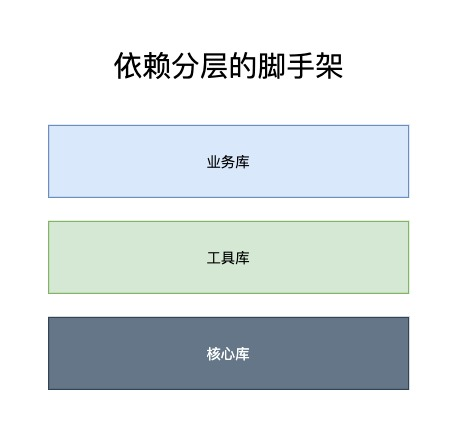
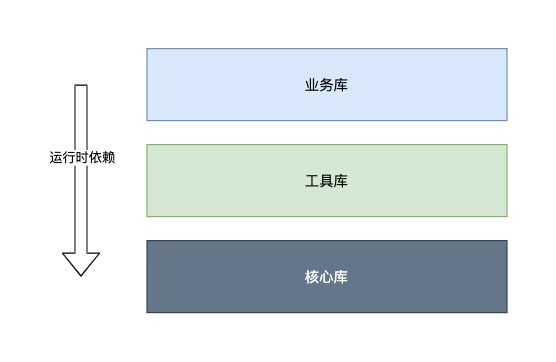
Update post

diff --git a/content/blog-posts/2021/01-13-运行时依赖、编译时依赖在前端领域的概念与实现.md b/content/blog-posts/2021/01-13-运行时依赖、编译时依赖在前端领域的概念与实现.md
@@ -8,26 +8,51 @@ tags:
   - 架构
 ---
 
-## why
+## 动机
 
 纯前端的小伙伴对运行时和编译时依赖的概念比较模糊，所以这里想分享一下其中的原理，与感兴趣的前端小伙一起探讨，同时让我们前端小队成员更深入地了解我们的低代码平台的前端架构。
 
-## what
+## What
 
-什么是运行时依赖，什么是编译时依赖？纯前端的小伙伴应该对此概念比较陌生。其实这些都是成熟后端语言的构建术语，例如 Java。
+运行时依赖？编译时依赖？纯前端的小伙伴应该对此比较陌生。其实在成熟的后端语言都属于常识了。
 
-如果我用前端的话术来解释，可能就很容易理解了：
+如果这里用前端的话术来描述，可能就很容易理解了：
 
-1. 运行时依赖：我们的业务代码在运行到某一行时，通过全局对象 `window` 查找被依赖的模块，例如 `window.react`。这个时候就是运行时依赖 `react`。
-2. 编译时依赖：在工程构建工具（通常是 webpack）编译代码时，将模块之间的依赖编译进代码，前提是没有配置外置模块（external）。例如 `import React from 'react'`。这个时候就是编译时依赖 `react`。
+2. 编译时依赖：将工程中所依赖的模块与我们开发的模块一起进行编译。例如 `import React from 'react'`（webpack 中不设置 externals）。这个时候就是编译时依赖 `react`。
+2. 运行时依赖：代码在运行到某一行时，通过使用全局对象 `window` 的某个模块，例如 `window.react`。这个时候就是运行时依赖 `react`。
 
-通过 webpack 的 externals 将三方依赖分离，这个相信很多小伙伴都是有所认识的，但是其背后的概念可能小伙伴们并不太熟悉。所以这里想谈的就是这个背后的概念与具体落地方案。
+### 编译时依赖
+
+最直白的其实就是将前端 npm 工程中的 `package.json` 中的 `dependencies` 下的所有项，与我们开发的代码一起构建了。
+
+举个例子：
+
+```tsx
+import React from 'react'
+import ReactDOM from 'react-dom'
+
+const App extends React.Component {
+  render() {
+    return (
+      <div>Hello</div>
+    )
+  }
+}
+
+ReactDOM.render(<App />, container)
+```
+
+这里假设使用了 webpack 进行构建，没有使用 externals 配置将 react 和 react-dom 分离的话，就等于业务模块 `App` 在编译时依赖了 react 和 react-dom。
+
+目前开源社区中很 hit 的前端工程脚手架 `create-react-app`，隐藏了 webpack 的配置细节，开箱即用的，门槛较低。同时也将所有模块都通过编译时依赖的方式进行构建，项目规模小的情况下，还是很好用的，但是随着项目规模扩张，就不够了。需要手动将 webpack ejest，再根据项目进行定制。
+
+当然也有一些脚手架优化的比较好，例如 `nextjs`，`gatsbyjs` 等。这里也不详细讨论。
 
 ### 运行时依赖
 
-通常，我们会通过 CDN 地址获取已经构建好的库，并且我们编写的业务库需要在别人的库加载完成后再加载。
+通常，我们可以通过 CDN 获取我们所依赖的、稳定版本的三方库，我们编写的业务库需要在依赖的库加载完成后再加载。
 
-例如我们通过 CDN 加载 react，我们的业务代码库紧跟其后：
+> 例如我们通过 CDN 加载 react，我们的业务代码库紧跟其后：
 
 ```html
 <script src="https://cdnjs.cloudflare.com/ajax/libs/react/17.0.1/umd/react.production.min.js"></script>
@@ -35,58 +60,34 @@ tags:
 <script src="https://biz-code.js"></script>
 ```
 
-这个时候我们的业务代码就是在运行时依赖 `react`。这个也是前端常见的性能优化手段之一，将代码开发时所依赖的包，按照某种规则分割成多个包。
+这个时候我们的业务库 `biz-code` 就是在运行时依赖 `react`。这个概念对如何进行业务分离很重要，并且接下来将分享几个个人观点：
 
-但是这篇文章并不是将性能优化，而是想要通过这个`运行时依赖`这个概念，讲述 1. 如何多人异步开发应用；2. 打造更稳定的、高容错的、可持续交付的应用工程。
-
-作为对比，会先讲述一下什么是编译时依赖。
-
-### 编译时依赖
-
-其实就是写在前端 npm 工程中的 `package.json` 中的 `dependencies` 下的所有项。
-
-例如最简单的 package.json 描述：
-
-```json
-{
-  "name": "package-name",
-  "dependencies": {
-    "react": "^17.0.1",
-    "react-dom": "^17.0.1"
-  },
-  "scripts": {
-    "start": "node start.js"
-  }
-}
-```
-
-一般的前端工程脚手架，例如 `create-react-app`，是基于 webpack 处理所有的模块的。熟悉 webpack 的朋友应该都知道`入口 entry`的概念。一般情况下，webpack 会将分析模块的依赖，就是 `import` 了什么，然后将 `import` 的模块也编译进 `bundler.js` 中。
-
-所以按照上面的 json 描述，webpack 将会把 `react` 和 `react-dom` 与我们的业务代码一起编译（compile）。也就是说，我们在编译时依赖了 `react` 和 `react-dom`。
-
-这种方式就称为`编译时依赖`（除非写 webpack 配置时用 `externals`）。
+1. 前端开发对构建和依赖概念陌生的缘由（非重点）
+2. 如何通过运行时依赖__设计高度可扩展的业务架构__。（重点）
 
 ---
 
 ## 前端工程的现状
 
-就目前而言，大部分的 web 软件项目都是简单业务（_只有业务量足够大，才会有更多的技术与非技术问题需要解决，这也是大公司与小公司在技术上的主要区别，这是题外话_）。
+就目前而言，大部分互联网 web 软件项目都是简单业务。（毕竟互联网产品的生命周期超过三年的就算是成功了😊）
 
-当项目规模很小的时候，其实区别是不大的。开源社区有很多成熟的、开箱即用的脚手架（例如 create-react-app、umi），开发小规模项目都挺好用挺快的。要做到这么简单易用，最好的途径就是脚手架直接依赖对应的开发库，这样就导致使用脚手架工具就等于`编译时依赖`所有的三方库。
+当项目规模很小的时候，如何开发都问题不大。开源社区有很多优秀的脚手架（例如 create-react-app、umi），快速开发业务不再困难。脚手架要做的，就是尽可能的降低前端开发的入门门槛，提高行业的业务迭代效率，从而提高整个社会的效率（国外就有很多优秀的 SaaS，都是通过快速迭代出现的）。
 
-因为编译时依赖是最简单的依赖管理和构建方式。
+所以在实现脚手架最好的途径就是直接将所有代码一起编译，简单粗暴，因为编译时依赖是最简单的管理方式。
 
 ### 问题
 
-一旦项目规模上了一定的程度，业务模块越来越多，越来越纠缠不清、三方依赖包的数量越来越多，只有编译时依赖的问题就爆发了：工程的依赖逐渐会陷入混乱的状态，构建速度越来越慢，调试将越来越难。不彻底解决，团队将难以前进。
+可是，一旦项目到了一定规模，依赖会越来越多，直到依赖纠缠不清，构建速度也会越来越慢，调试将越来越难。最终的结果就是，团队将花很多的时间整理各种依赖，排查各种依赖紊乱导致的问题，技术成了业务增长的瓶颈。最终归结为工程依赖管理的问题。
 
-我们也遇到了同样的问题了，所以我们思考如何解决这些问题。
+> 我们团队也遇到了同样的问题了，所以我们需要学习更成熟的方案，思考如何解决。
 
 ### 解决思路
 
-其实在工程中，绝大部分的三方依赖是不会被改动的。所以构建工具 webpacck 已经帮我们找到了解决的办法了，就是将三方库改为 `运行时依赖`。也就是通过 webpack config 中的 externals 将三方库做成静态库，从工程开发中分离出来。
+在实际工程中，绝大部分的三方依赖是不会被我们改动的。我们其实并不需要在编译的时候依赖这些库。
 
-例如 react react-dom：
+所以构建工具 webpacck 提供 externals 配置，帮助我们将三方库从工程开发中分离出来...
+
+例如：
 
 ```json
 /// webpack config
@@ -100,19 +101,21 @@ tags:
 }
 ```
 
-## 做正确的判断
+> 当然这里只是第一步，但是也是关键的一步。
+
+## 做正确的事
+
+有了上述的初步认知，我们可以定制符合可扩展的前端工程：
 
 ![img](../../assets/images/依赖分层图例.jpg)
 
-有了上述的初步认知，我们可以对一个符合中大型工程的脚手架，做出一些分层判断：
-
 ### 核心库
 
-我们可以最稳定的、最底层的依赖归类核心库，例如 react, react-dom
+我们可以最稳定的、最底层的依赖归类核心库，例如 react, react-dom。
 
 ### 工具库
 
-我们可以将基于核心库（也可以不必）扩展而来的三方库归类工具库，例如 material-ui, react-router
+我们可以将基于核心库（也可以不必）扩展而来的三方库归类工具库，例如 material-ui, react-router。
 
 ### 业务库
 
@@ -122,7 +125,7 @@ tags:
 
 对于业务库的进一步划分，才是整个业务系统有真正意义上的架构。
 
-对于架构的看法，这里我引用《The art of scalability》的观点：架构要对系统的可扩展性、稳定性负全责。什么是可扩展性？就是随着业务的增减，可以通过动态增减人员的组织需求，并且即使人员有变动，系统依然是稳定的，可用的。_所以可扩展性并不非一个技术的问题，而是技术+人事的问题。_
+对于架构的看法，这里我引用《The art of scalability》的观点：架构要对系统的可扩展性、稳定性负全责。什么是可扩展性？就是随着业务的增减，可以通过动态增减人员来满足业务变动的需求，即使人员有变动，系统依然可以稳定运行。_所以__架构__并非一个单纯的技术问题，而是技术 + 人事的问题。_
 
 那么有什么办法可以做到？
 
@@ -130,5 +133,13 @@ tags:
 
 什么是分离点？就是将模块与模块之间切底隔绝。想象一下，我们是如何与三方服务对接的？例如接入微信支付、支付宝支付？我们是通过文档与其做技术对接。三方服务将提供 SDK，我们将集成于我们的业务系统之中。
 
-所以，分离点就是将模块分拆成独立服务，并且对外提供 SDK 和对接文档。TODO
+所以，分离点就是将模块分拆成独立服务，并且对外提供 SDK 和对接文档。
+
+当然，每增加一个分离点，人力成本就会上升，对应的管理难度也会上升。所以依然还是要清楚认识到自身所在的组织的能力上限在哪里、业务需求增长量在哪里，扩展点在哪里，才能更好的定制分离点。
+
+当我们确定好分离点以后，就可以通过`运行时依赖`，将由团队编写的服务或库按照依赖顺序串联起来，组成稳定的系统。
+
+## 总结
+
+以上内容希望对大家有所帮助。虽然目前的前端是指浏览器，但是我们不应该局限在浏览器。谢谢。
 
